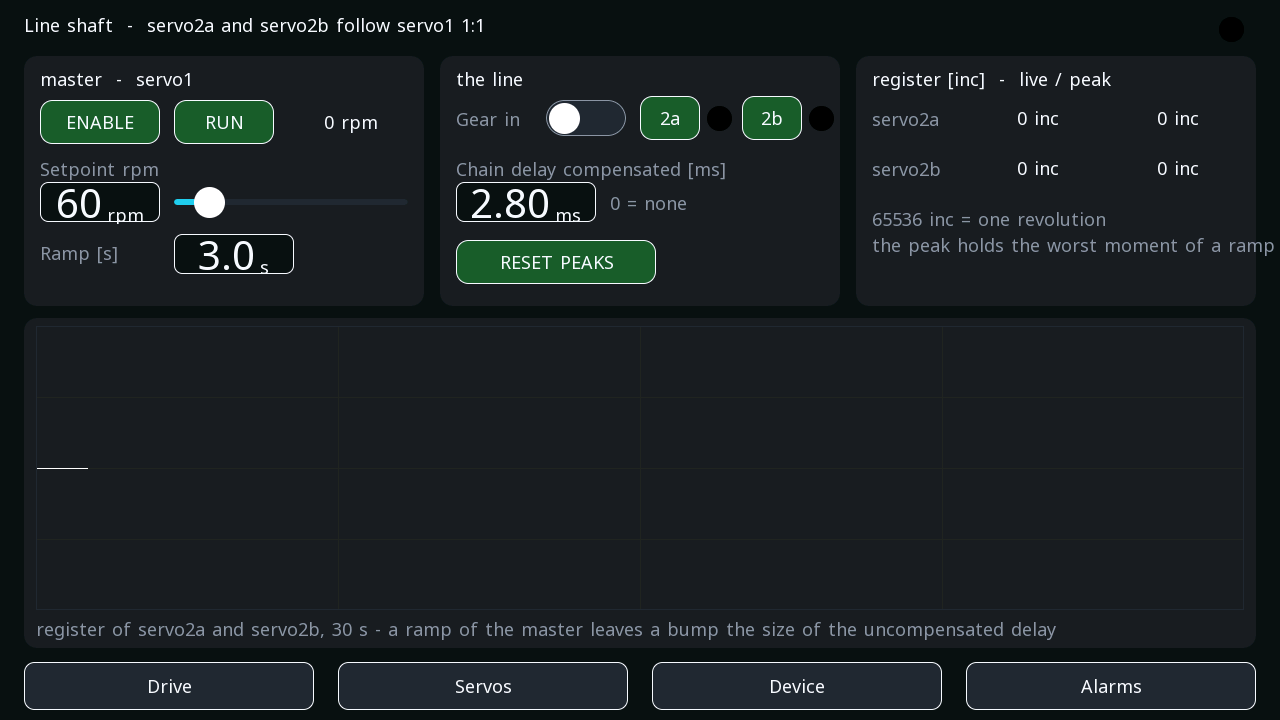
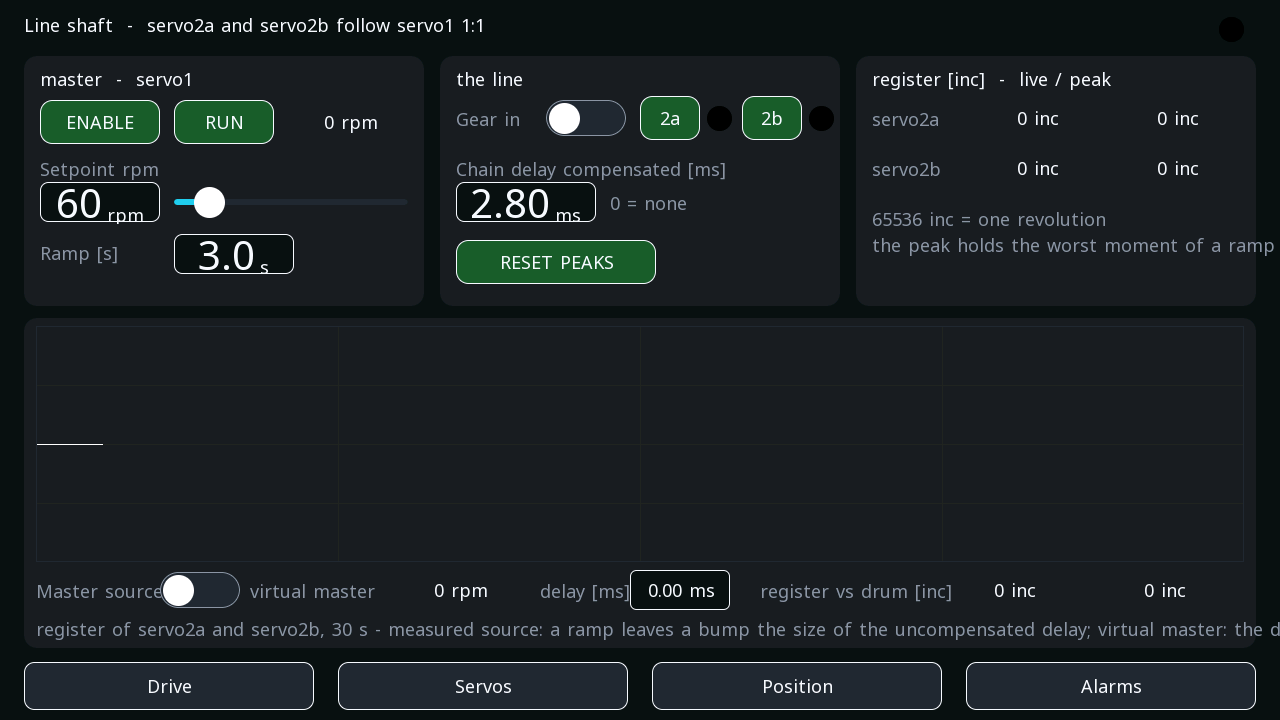
The virtual master (spec 049 phase 3): the EtherCAT page's virtual master section (an axis with no drive, its own profile or a counter variable), the line-shaft block note, the example page's source switch with the measurement (followers 88/67 increments behind the virtual master at 2.5 ms compensat

diff --git a/docs/example-reterminal-ecat.md b/docs/example-reterminal-ecat.md
@@ -178,6 +178,33 @@ the real machine with its motors and loads. Through all of it the bus
 stayed clean: no lost frame, no overrun, the worst wake-up under 30 µs
 at 1 ms and 250 µs alike.
 
+### The virtual master
+
+The line screen's *Master source* switch picks who leads. Off, the
+followers gear to servo1's **measured** position, as above. On, a
+**virtual master** leads - an axis with no drive behind it, `vm` in the
+project, that runs the line's profile (the same RUN, setpoint and ramp
+command it), the double's axes gear to its position and servo1 takes
+its velocity only, the way a drum that gets a speed setpoint would. A
+second register on that row, *register vs drum*, shows the followers
+against servo1 while the virtual master leads.
+
+What the bench read at 300 rpm, 1:1: against the virtual master the
+followers sit 88 and 67 increments behind in the hold with a delay of
+2.5 ms compensated (the followers' own chain: the setpoint IS the
+master, what remains is the time the drive takes to apply it - 2.75 ms
+zeroes it); against the **drum** they run 4 500 increments ahead in
+the hold, and 4 300 behind once the line has stopped - a drum that
+follows a velocity through a 10 ms program cycle and its own ramp is
+not where the profile says, and every start and stop moves it a
+little further. That is the design lesson for a printing machine: the
+drum is either geared to the virtual master in position like the
+plates, or the plates gear to the drum's **measured** encoder - the
+virtual master can take a counter variable (the encoder on the drive's
+input B as a process-data signal) as its source instead of a profile,
+and then the delay compensation of the line shaft applies as measured
+above.
+
 ---
 
 ## Position and torque

diff --git a/docs/ethercat.md b/docs/ethercat.md
@@ -165,6 +165,24 @@ drive without a dictionary takes the vendor's known unit). A **double
 inverter** carries two axes in one slave: the window names where axis
 B's words begin, and an axis on it picks *A* or *B*.
 
+### A virtual master
+
+A line shaft needs a master, and the master need not be a drive. *Add
+virtual master axis* on the EtherCAT node makes an axis with nothing
+behind it: the program powers it and commands it like any axis
+(`MC_POWER`, `MC_MOVEVELOCITY`, `CO_RAMPTIME`, `MC_MOVEABS`), the device
+runs its profile every bus cycle, and every follower geared to it with
+`MC_GEARIN` sees the commanded position of the same cycle - the line's
+one clock. A drum that only takes a speed follows its velocity
+(`MC_READACTVEL`); a drum that must be in register is geared to it in
+position like the plates. The axis's window has one more choice: a
+**source** variable - a 32-bit integer counter, such as the drum's
+encoder on the drive's input B mapped as a process-data signal - and
+the virtual master is then the measured drum, with the counter's
+increments per revolution named beside it; the followers compensate
+the chain delay as they do behind a servo master. A Linux device only:
+the EtherCAT master steps it.
+
 A servo in csp needs the **distributed clock** (below): its position
 loop expects the setpoint at a fixed phase of its own cycle. While the
 axis is off, faulted or the slave is away, the setpoint follows the

diff --git a/docs/changelog.md b/docs/changelog.md
@@ -22,6 +22,15 @@ capabilities, the first one practically never moves.
   axis picks A or B. The reTerminal EtherCAT example carries the bench's
   two Lenze i700s this way, on the distributed clock at 1 ms. Linux
   runtime bundle.
+- **A virtual master axis.** An axis with no drive behind it, added on
+  the EtherCAT node: the program commands it like any axis, the device
+  runs its profile every bus cycle, and the followers of a line shaft
+  gear to its position - one clock for the whole line - while a drum
+  that takes only a speed follows its velocity. It can instead follow
+  a counter variable (the drum's encoder as a process-data signal) and
+  be the measured drum. The reTerminal EtherCAT example's line screen
+  has the source switch and a second register, the followers against
+  the drum. Linux runtime bundle.
 - **Torque and positioning on a servo.** Two motion blocks:
   `MC_SETTORQUELIMIT` holds a torque limit (per cent of rated) on the
   drive every bus cycle while it is enabled - the tension of a winder,

diff --git a/docs/blocks-motion.md b/docs/blocks-motion.md
@@ -388,6 +388,10 @@ constant speed with `Delay` 0, read `Register`, divide by the speed in
 increments per second - that quotient is the delay. `Delay` is read
 every cycle, so it can be tuned from a screen while the line runs.
 
+`Master` may be a servo axis or a **virtual master** - an axis with no
+drive that the program commands, or one that follows a counter variable
+(the drum's encoder); the EtherCAT page says how it is made.
+
 `Register` is the follower's actual position against the master's,
 through the ratio and the phase, in the follower's increments: 0 is in
 register, and a ramp of the master shows the uncompensated delay as a
